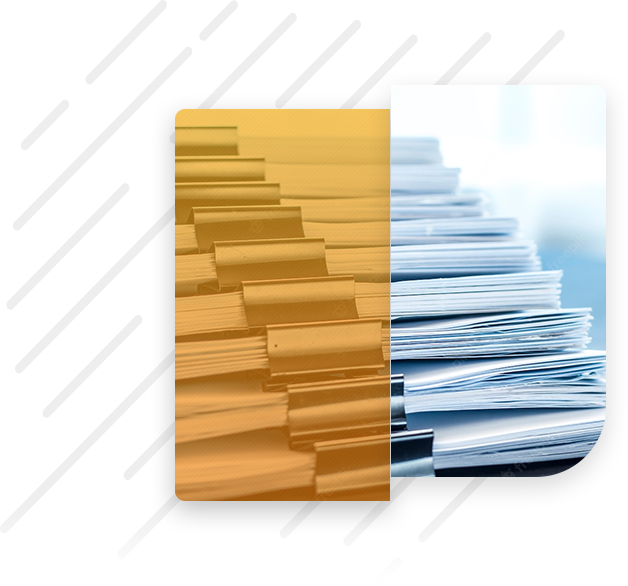
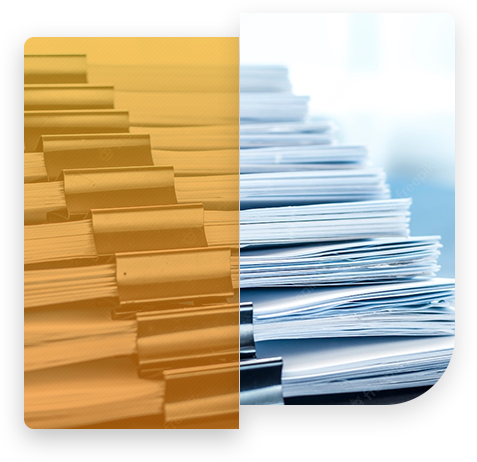
solutions fix

diff --git a/src/styles/main.sass b/src/styles/main.sass
@@ -27,7 +27,7 @@
     transform: translateY(100px)
     &.--loaded
       opacity: 1
-      transition: 1s
+      transition: .7s
       transition-property: opacity, transform
       transform: translateY(0)
   &-down
@@ -51,7 +51,7 @@
     transform: scale(1.2)
     &.--loaded
       opacity: 1
-      transition: 1.1s
+      transition: 1s
       transition-property: opacity, transform
       transform: scale(1)
 
@@ -115,8 +115,10 @@
     padding-top: 145px
     padding-bottom: 155px
   &__content
+    z-index: 1
     width: 100%
     max-width: 585px
+    position: relative
   &__title
     font-size: 72px
     font-weight: 800
@@ -170,11 +172,11 @@
     z-index: 1
     position: absolute
     top: 33px
-    right: -290px
+    right: -110px
   &__round
     position: absolute
     bottom: 275px
-    left: -25px
+    left: 40px
   &__lines
     position: absolute
     right: -140px
@@ -191,10 +193,12 @@
   &__item
     position: relative
     padding-top: 98px
-    padding-bottom: 35px
+    padding-bottom: 85px
     &:nth-of-type(odd)
       background: #fff
       .solutions
+        &__img-wrap
+          margin-left: -20px
         &__img
           justify-content: flex-end
           margin-left: auto
@@ -205,13 +209,18 @@
       .solutions
         &__img-wrap
           order: 2
+          margin-right: -20px
         &__content
           padding-right: 10px
     &:nth-of-type(1)
       z-index: 2
       .solutions
         &__img-wrap
-          margin-top: -85px
+          margin-top: -10px
+          &:before
+            top: -75px
+            left: -150px
+            display: block
         &__round
           width: 165px
           right: 100px
@@ -228,7 +237,11 @@
       padding-bottom: 70px
       .solutions
         &__img-wrap
-          margin-top: -30px
+          margin-top: -10px
+          &:before
+            top: -20px
+            left: -140px
+            display: block
         &__text
           h3
             width: calc( 100% + 15px )
@@ -237,7 +250,6 @@
           bottom: -65px
           width: 185px
     &:nth-of-type(4)
-      padding-bottom: 80px
       .solutions
         &__round
           left: 45px
@@ -245,21 +257,30 @@
           bottom: -78px
     &:nth-of-type(5)
       z-index: 2
-      padding-top: 120px
-      padding-bottom: 10px
       .solutions
         &__img-wrap
-          margin-top: -70px
+          &:before
+            top: -55px
+            left: -140px
+            display: block
         &__round
           bottom: -115px
           right: 155px
           width: 195px
   &__img-wrap
-    width: 455px
+    width: 475px
     position: relative
-    img
-      max-width: none
-      max-height: none
+    &:before
+      top: 0
+      left: 0
+      width: 585px
+      height: 585px
+      z-index: -1
+      background: url('../../images/lines.png') no-repeat
+      background-size: contain
+      content: ""
+      position: absolute
+      display: none
   &__img
     display: flex
     // width: 1200px
@@ -284,7 +305,7 @@
       line-height: 24px
       color: #3c3c3c
       text-transform: uppercase
-      margin-top: 35px
+      margin-top: 40px
       margin-bottom: 20px
     p
       margin-bottom: 20px
@@ -501,3 +522,72 @@
         font-size: 18px
         font-weight: 600
         color: var(--color-white)
+
+@media screen and (max-width: 1440px)
+  .intro
+    &__round
+      display: none
+
+  .solutions
+    &__item
+      &:nth-of-type(2)
+        .solutions
+          &__round
+            display: none
+
+@media screen and (max-width: 1219px)
+  .header
+    &__call
+      margin-right: 0
+
+  .call
+    &__icon-left
+      display: none
+    &__value
+      display: none
+
+  .intro
+    &__wrap
+      padding-bottom: 125px
+    &__content
+      max-width: 520px
+    &__title
+      font-size: 62px
+    &__item
+      padding: 10px 50px
+      margin-right: 30px
+      max-width: 220px
+      font-size: 26px
+      line-height: 32px
+    &__img
+      width: 600px
+    &__lines
+      width: 530px
+      right: -100px
+
+  .solutions
+    padding-top: 70px
+    &__item
+      padding-top: 80px !important
+      padding-bottom: 70px !important
+      &:nth-of-type(even)
+        .solutions
+          &__content
+            padding-right: 40px
+
+    &__wrap
+      align-items: center
+    &__img-wrap
+      width: 420px
+    &__content
+      width: calc(100% - 420px)
+    &__text
+      font-size: 17px
+      h3
+        font-size: 28px
+        line-height: 36px
+        margin-bottom: 20px
+        span
+          display: block
+    &__round
+      display: none

diff --git a/src/components/case/case.sass b/src/components/case/case.sass
@@ -6,9 +6,19 @@
         padding-left: 0
         padding-right: 0
 
-@media screen and (min-width: 768px)
+@media screen and (min-width: 1220px)
     .case
         --case-md-width: 1140px
+        --case-width: var(--case-md-width)
+
+@media screen and (max-width: 1219px)
+    .case
+        --case-md-width: 960px
+        --case-width: var(--case-md-width)
+
+@media screen and (max-width: 992px)
+    .case
+        --case-md-width: 750px
         --case-width: var(--case-md-width)
 
 @media screen and (max-width: 767px)
